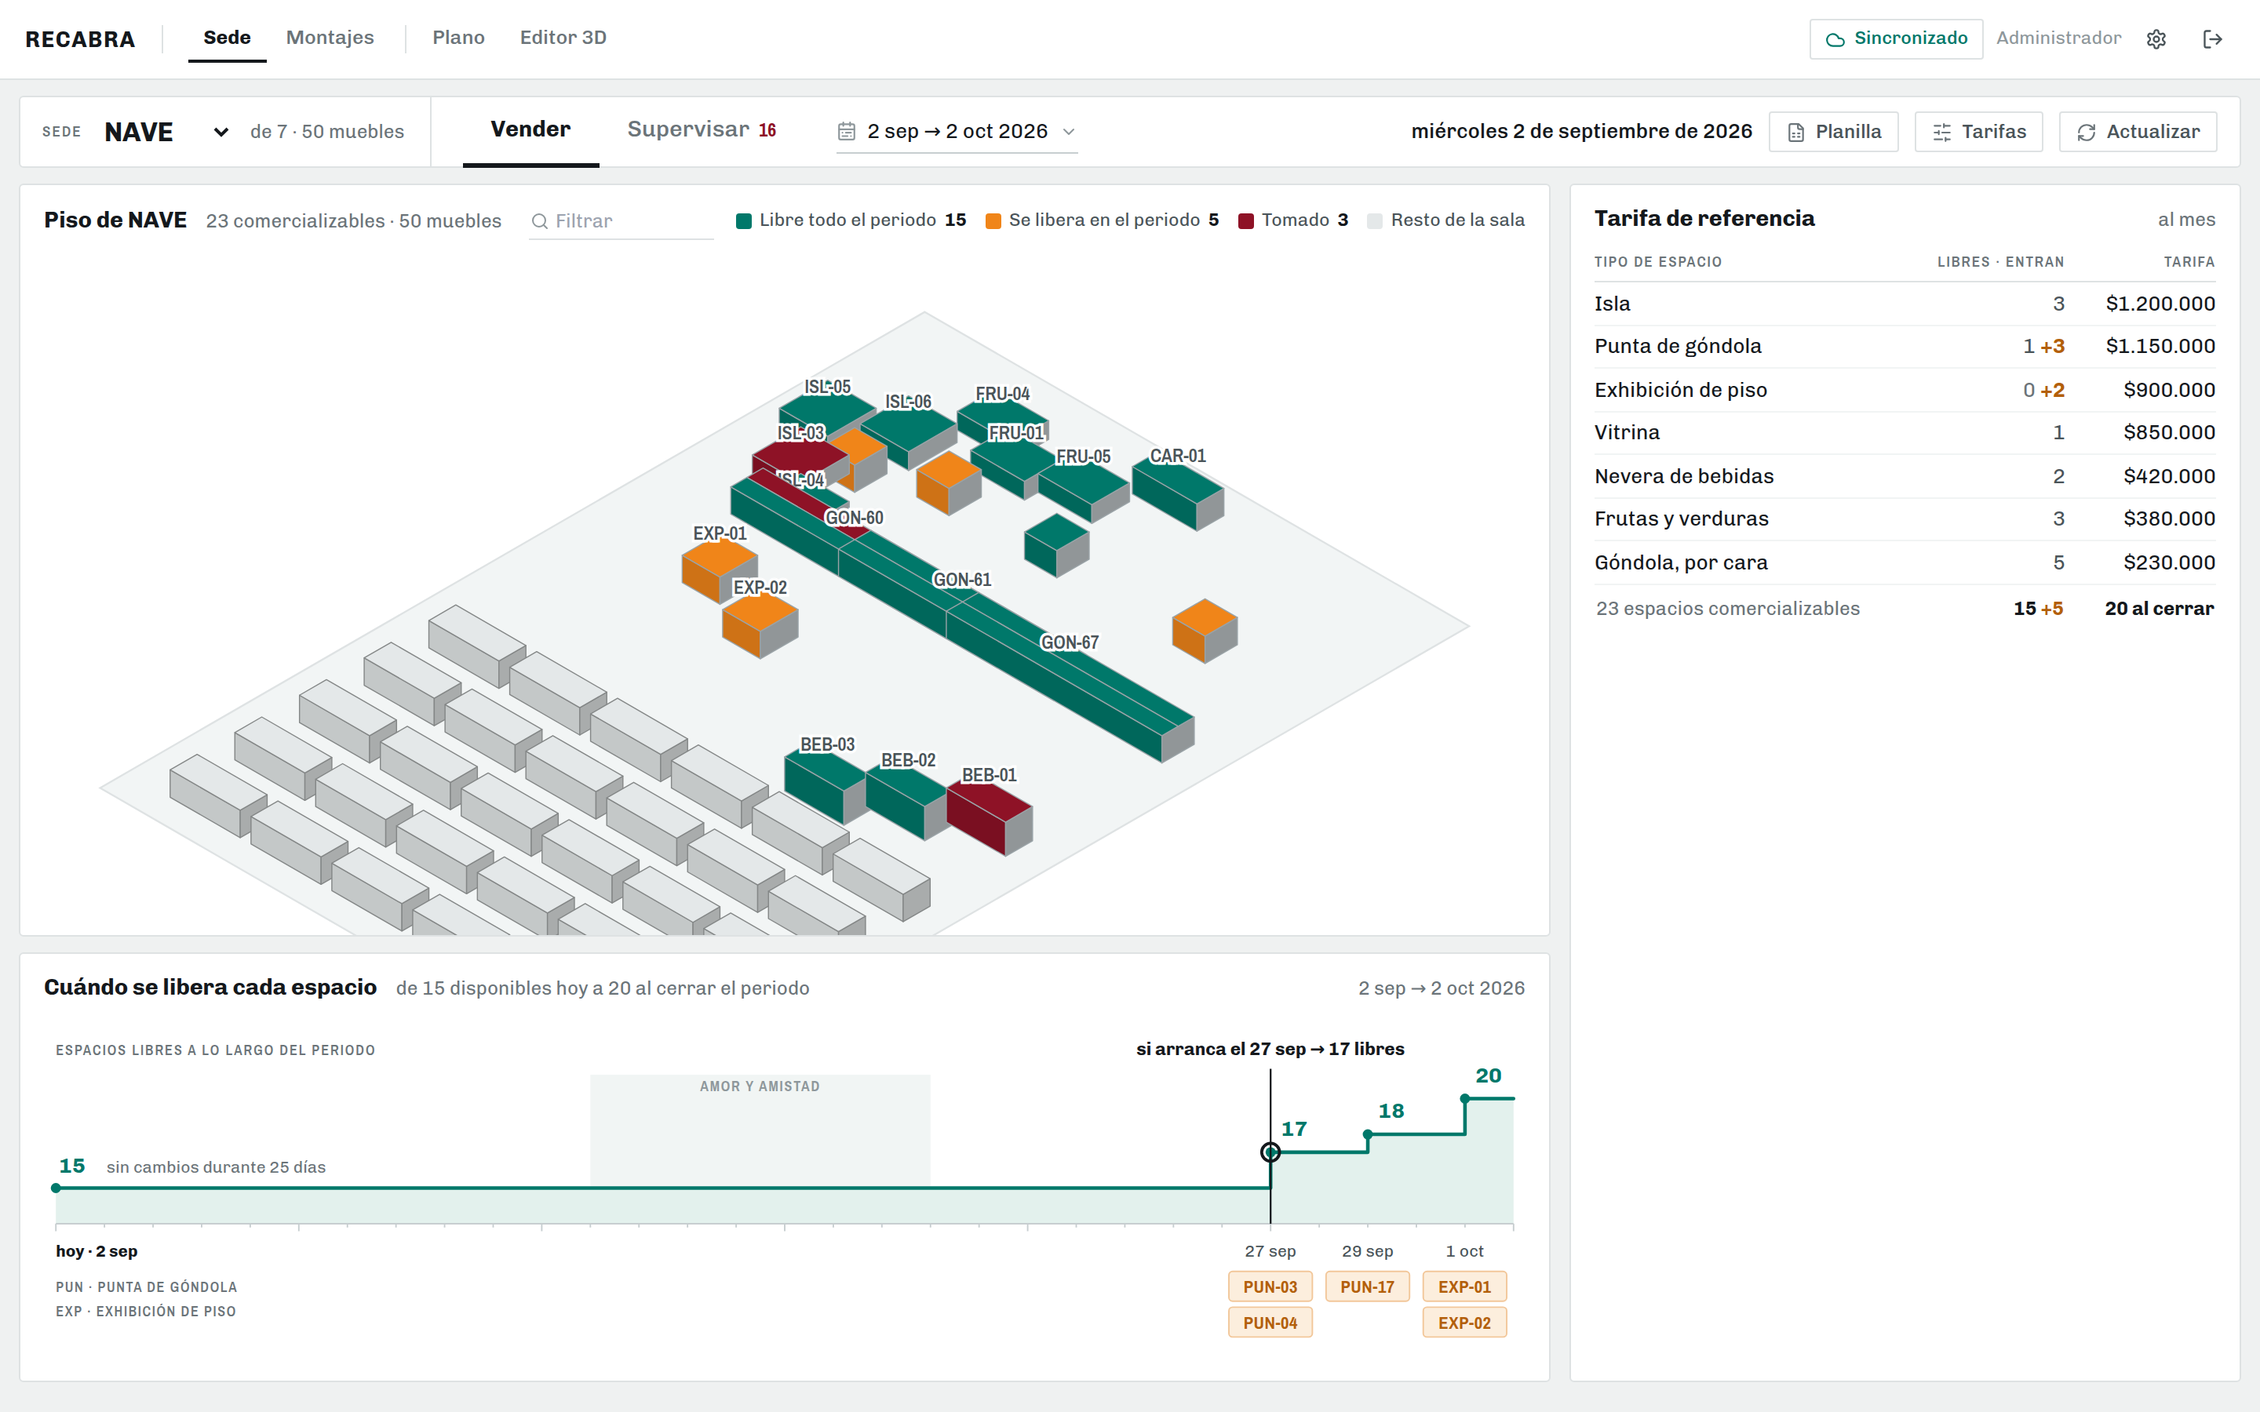
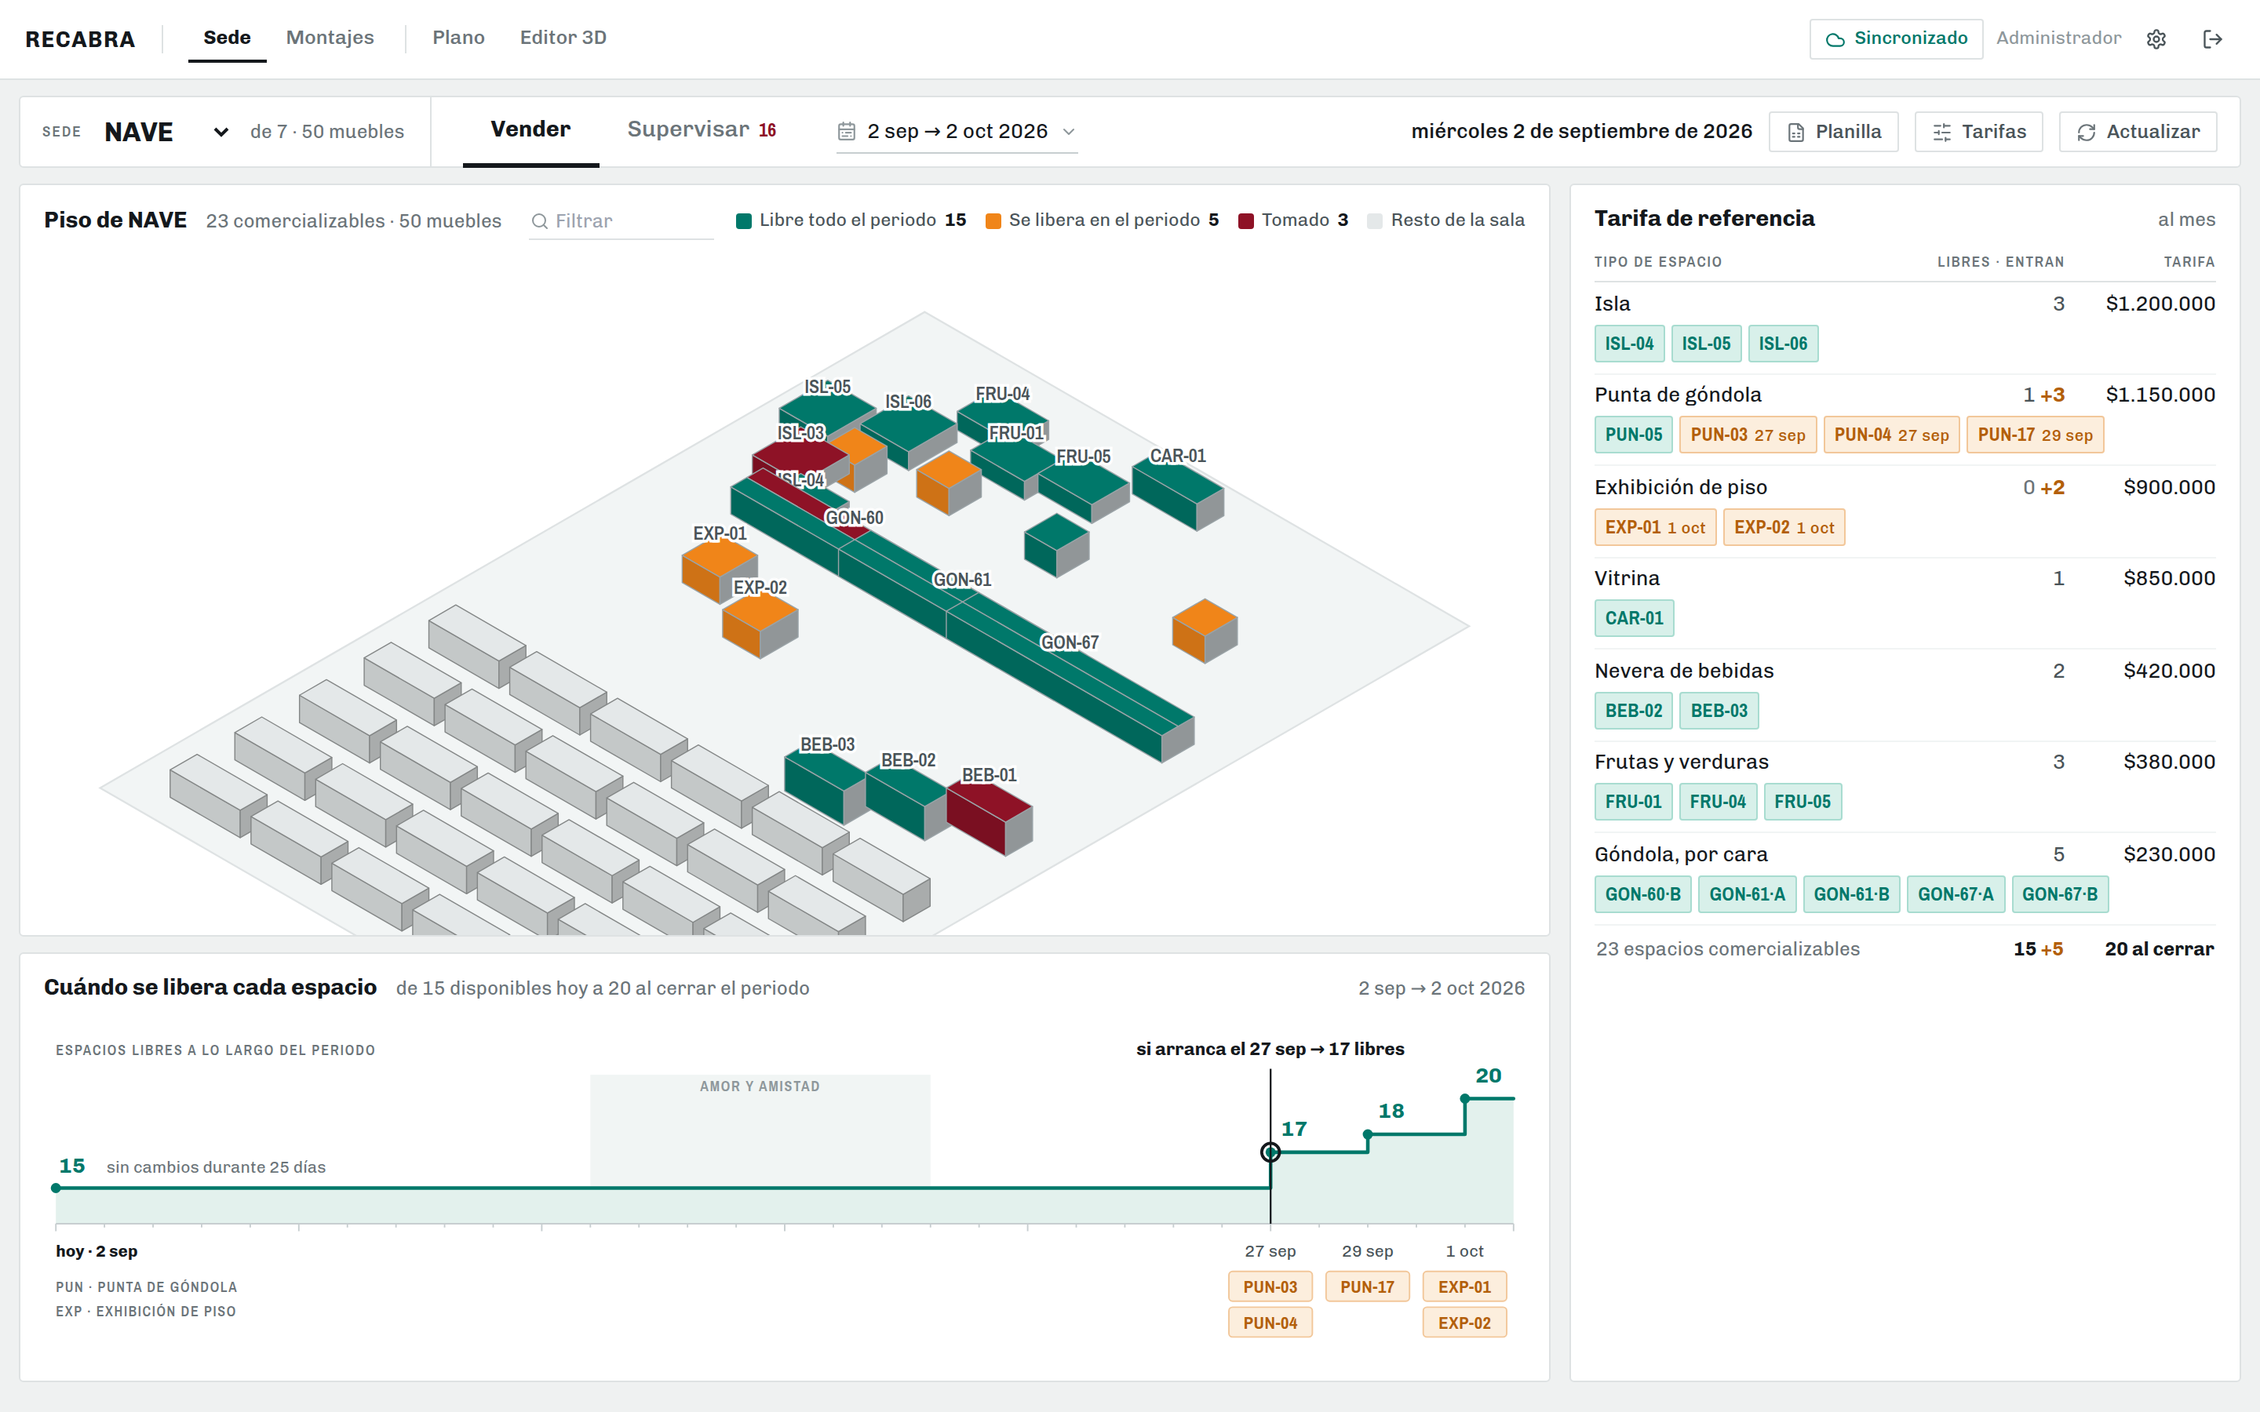
feat(vender): la lista de precios dice cuáles, no sólo cuántos
«Isla · 3 · $1.200.000» contesta cuántas quedan y no CUÁLES, y para averiguarlo
había que buscar los prismas verdes a ojo entre ciento seis muebles. Debajo de
cada tipo van ahora los códigos de sus caras libres.

Van ahí y no en un panel aparte porque un panel aparte repetiría los mismos
siete tipos con los mismos siete precios: es el mismo dato con una vuelta más
de detalle, no otro dato.

Cada código se toca y entra al contrato — la misma acción que tocar el mueble
en el plano, por el otro camino. Es deliberado que sean dos: el plano contesta
«dónde queda» y la lista contesta «cuáles hay», y según cuál de las dos
preguntas traiga el proveedor del otro lado del teléfono uno arranca por un
lado o por el otro. Las góndolas dobles salen como `GON-61·A` y `GON-61·B`,
que son dos espacios y se venden por separado.

Las que se liberan ADENTRO del periodo van en naranja y con su fecha, no
escondidas: es inventario vendible —«te lo puedo dar desde el 25»— y esconderlo
es dejar de ofrecer cinco espacios de veinte. La fecha se cuenta día por día y
no sumándole uno al fin del contrato, que es lo que uno escribiría primero:
esa cuenta se equivoca en los dos casos que de verdad aparecen —un contrato que
ARRANCA en el medio de la ventana, donde el día libre es el primero y no el
último, y una cara con dos contratos que dejan un hueco entre medio—.

Los códigos salen de pantalla cuando hay un contrato armado: ahí la pregunta ya
[…]

diff --git a/frontend/src/pages/DashboardView.tsx b/frontend/src/pages/DashboardView.tsx
@@ -1,4 +1,4 @@
-import { useCallback, useEffect, useMemo, useRef, useState } from "react";
+import { Fragment, useCallback, useEffect, useMemo, useRef, useState } from "react";
 import {
   Camera,
   RefreshCw,
@@ -48,7 +48,7 @@ import type { ResumenContrato } from "../components/Contrato/Contrato";
 import Planometria from "../components/Contrato/Planometria";
 import CancelarContrato from "../components/Contrato/CancelarContrato";
 import CargaMasiva from "../components/CargaMasiva/CargaMasiva";
-import { inclusiveDays, upcomingSeasons } from "../types/seasons";
+import { inclusiveDays, toISODate, upcomingSeasons } from "../types/seasons";
 /* El parte —la zona superior escrita en prosa— salió de las dos pantallas.
    En Supervisar lo reemplaza la franja de cinco cifras: quien pone el canon no
    necesita que se le explique el negocio, necesita el dato a mano. En Vender
@@ -170,6 +170,38 @@ function facesOf(f: UnifiedFixture): FaceEntry[] {
 function codigoVisible(entry: FaceEntry): string {
   if (!isDoubleGondola(entry.fixture)) return entry.code;
   return entry.face === "B" ? `${entry.fixture.code}·B` : `${entry.fixture.code}·A`;
+}
+
+/** Una cara que se puede ofrecer en el periodo elegido. */
+interface Disponible {
+  code: string;
+  fixture: UnifiedFixture;
+  face: "A" | "B";
+  /** El primer día en que queda libre. Ausente = libre desde el arranque. */
+  desde?: Date;
+}
+
+/** Desde cuándo se puede ofrecer una cara que está tomada parte del periodo.
+ *
+ *  Se cuenta día por día en vez de sumarle uno a la fecha de fin del contrato,
+ *  que es lo que uno escribiría primero: esa cuenta se equivoca en los dos
+ *  casos que de verdad aparecen —un contrato que ARRANCA en el medio de la
+ *  ventana, donde el día libre es el primero y no el último, y una cara con dos
+ *  contratos que dejan un hueco entre medio—. Son 31 días y cinco caras: la
+ *  cuenta directa cuesta nada y no puede estar mal. */
+function primerDiaLibre(
+  face: { status: SpaceStatus; startDate?: string; endDate?: string },
+  from: Date,
+  to: Date,
+): Date | undefined {
+  const dia = 86_400_000;
+  const d0 = new Date(from); d0.setHours(0, 0, 0, 0);
+  const fin = new Date(to); fin.setHours(0, 0, 0, 0);
+  for (let t = d0.getTime(); t <= fin.getTime(); t += dia) {
+    const d = new Date(t);
+    if (daysTakenInRange(face, d, d) === 0) return d;
+  }
+  return undefined;
 }
 
 /** Faces that take part in the COMMERCIAL picture.
@@ -2099,6 +2131,56 @@ function SpacesTable({
   );
 }
 
+/** Un espacio libre, como pastilla: el código y —si se libera adentro del
+ *  periodo— desde cuándo.
+ *
+ *  Se toca y entra al contrato, igual que tocarlo en el plano. Es la misma
+ *  acción por dos caminos a propósito: el plano contesta «dónde queda» y la
+ *  lista contesta «cuáles hay», y según cuál de las dos preguntas traiga el
+ *  proveedor uno arranca por un lado o por el otro.
+ *
+ *  El que se libera adentro del periodo va en naranja y con su fecha. No se
+ *  esconde: es inventario vendible —«te lo puedo dar desde el 25»— y esconderlo
+ *  es dejar de vender cinco espacios de veinte. */
+function ChipEspacio({
+  code, desde, puesto, onClick,
+}: {
+  code: string;
+  desde?: Date;
+  /** Ya está en el contrato que se está armando. */
+  puesto: boolean;
+  onClick: () => void;
+}) {
+  const entra = desde !== undefined;
+  return (
+    <button
+      type="button"
+      onClick={(e) => { e.stopPropagation(); onClick(); }}
+      title={puesto
+        ? `Sacar ${code} del contrato`
+        : entra
+        ? `Sumar ${code} al contrato · se libera el ${fechaEnCurso(toISODate(desde))}`
+        : `Sumar ${code} al contrato`}
+      style={{
+        display: "inline-flex", alignItems: "baseline", gap: 4,
+        padding: "2px 6px", borderRadius: "var(--r-xs)", cursor: "pointer",
+        fontFamily: "var(--font-mono)", fontWeight: 700, fontSize: 12,
+        letterSpacing: "0.02em", lineHeight: 1.5,
+        border: `1px solid ${puesto ? "var(--ink-1)" : entra ? "var(--entra-borde)" : "var(--libre-borde)"}`,
+        background: puesto ? "var(--ink-1)" : entra ? "var(--entra-suave)" : "var(--libre-suave)",
+        color: puesto ? "#fff" : entra ? "var(--entra-txt)" : "var(--libre)",
+      }}
+    >
+      {code}
+      {entra && (
+        <span style={{ fontFamily: "var(--font-sans)", fontWeight: 500, fontSize: 10 }}>
+          {fechaEnCurso(toISODate(desde))}
+        </span>
+      )}
+    </button>
+  );
+}
+
 // ─── La franja de cifras ─────────────────────────────────────────────────────
 
 /** Una cifra de la franja: cómo se llama, cuánto es, y qué quiere decir.
@@ -2464,16 +2546,22 @@ export default function DashboardView() {
   const porCategoria = useMemo(() => {
     if (!mapRange) return [];
     const acum = new Map<string, {
-      libres: number; parciales: number; total: number; tarifa: number | null;
+      libres: Disponible[]; parciales: Disponible[]; total: number; tarifa: number | null;
     }>();
     fixtures.forEach((f) => {
       const cat = rateTypeOf(f);
       const ref = referenceRateFor(referenceRates, f.sede || sede, cat);
       commercialFacesOf(f).forEach((face) => {
-        const e = acum.get(cat) ?? { libres: 0, parciales: 0, total: 0, tarifa: ref };
+        const e = acum.get(cat) ?? { libres: [], parciales: [], total: 0, tarifa: ref };
         const a = rangeAvailability(face, mapRange.from, mapRange.to);
-        if (a === "libre") e.libres++;
-        else if (a === "parcial") e.parciales++;
+        if (a === "libre") {
+          e.libres.push({ code: codigoVisible(face), fixture: f, face: face.face });
+        } else if (a === "parcial") {
+          e.parciales.push({
+            code: codigoVisible(face), fixture: f, face: face.face,
+            desde: primerDiaLibre(face, mapRange.from, mapRange.to),
+          });
+        }
         e.total++;
         if (e.tarifa === null) e.tarifa = ref;
         acum.set(cat, e);
@@ -2823,6 +2911,11 @@ export default function DashboardView() {
    *  «¿qué le ofrezco?». Tenerlo detrás de un botón obligaba a abrir, mirar,
    *  cerrar y volver a mirar el plano — cuatro gestos para un dato que se usa
    *  en cada llamada. */
+  /** Los códigos sólo mientras no hay contrato armado: ahí la hoja de la
+   *  derecha está vacía y la pregunta es cuáles hay. Con la ficha abierta la
+   *  pregunta ya es otra y los códigos la empujarían fuera de la pantalla. */
+  const conCodigos = espaciosDelContrato.length === 0 && !cerrado;
+
   const panelTarifas = (
     <Card style={{ flex: "1 1 auto", minHeight: 0 }}>
       <CardHeader title="Tarifa de referencia" right={<span>al mes</span>} />
@@ -2857,9 +2950,10 @@ export default function DashboardView() {
                 $1.200.000», se toca, y el plano se queda sólo con las islas. */}
             {porCategoria.map(({ cat, libres, parciales, tarifa }) => {
               const activa = mapCategoria === cat;
+              const cuantas = libres.length + parciales.length;
               return (
+              <Fragment key={cat}>
               <tr
-                key={cat}
                 onClick={() => setMapCategoria(activa ? null : cat)}
                 title={activa
                   ? "Ver todos los tipos en el plano"
@@ -2871,27 +2965,75 @@ export default function DashboardView() {
                   fontWeight: activa ? 700 : 400,
                   boxShadow: activa ? "inset 2px 0 0 var(--ink-1)" : undefined,
                   paddingLeft: activa ? 8 : 0,
+                  borderBottom: conCodigos && cuantas > 0 ? "none" : celdaTarifa.borderBottom,
                 }}>
                   {rateTypeLabel(cat)}
                 </td>
-                <td style={{ ...celdaTarifa, textAlign: "right" }}>
-                  <span style={{ color: libres === 0 ? "var(--ink-3)" : "var(--ink-2)" }}>{libres}</span>
-                  {parciales > 0 && (
+                <td style={{
+                  ...celdaTarifa, textAlign: "right",
+                  borderBottom: conCodigos && cuantas > 0 ? "none" : celdaTarifa.borderBottom,
+                }}>
+                  <span style={{ color: libres.length === 0 ? "var(--ink-3)" : "var(--ink-2)" }}>
+                    {libres.length}
+                  </span>
+                  {parciales.length > 0 && (
                     <>
                       {" "}
                       <span
-                        title={`${parciales} se libera${parciales === 1 ? "" : "n"} adentro del periodo`}
+                        title={`${parciales.length} se libera${parciales.length === 1 ? "" : "n"} adentro del periodo`}
                         style={{ color: "var(--entra-txt)", fontWeight: 700 }}
                       >
-                        +{parciales}
+                        +{parciales.length}
                       </span>
                     </>
                   )}
                 </td>
-                <td style={{ ...celdaTarifa, textAlign: "right" }}>
+                <td style={{
+                  ...celdaTarifa, textAlign: "right",
+                  borderBottom: conCodigos && cuantas > 0 ? "none" : celdaTarifa.borderBottom,
+                }}>
                   {tarifa ? formatCOP(tarifa) : <span style={{ color: "var(--ink-vacio)" }}>sin tarifa</span>}
                 </td>
               </tr>
+
+              {/* Los códigos de lo que está libre, debajo de su tipo.
+                  «Isla · 3» dice cuántas quedan y no CUÁLES, y para averiguarlo
+                  había que buscar los prismas verdes a ojo entre ciento seis
+                  muebles. Van acá y no en un panel aparte porque el panel
+                  aparte repetiría los mismos siete tipos con los mismos siete
+                  precios: es el mismo dato con una vuelta más de detalle.
+
+                  Sólo mientras no hay contrato armado. Después son ruido —lo
+                  que se necesita entonces es el formulario— y encima empujan
+                  la ficha fuera de la pantalla. */}
+              {conCodigos && cuantas > 0 && (
+                <tr>
+                  <td colSpan={3} style={{
+                    padding: "0 0 7px", borderBottom: "1px solid var(--line-soft)",
+                  }}>
+                    <div style={{ display: "flex", flexWrap: "wrap", gap: 4 }}>
+                      {libres.map((d) => (
+                        <ChipEspacio
+                          key={`${d.fixture.id}-${d.face}`}
+                          code={d.code}
+                          onClick={() => alternarCara(d.fixture.id, d.face)}
+                          puesto={enContrato.some((x) => x.id === d.fixture.id && x.face === d.face)}
+                        />
+                      ))}
+                      {parciales.map((d) => (
+                        <ChipEspacio
+                          key={`${d.fixture.id}-${d.face}`}
+                          code={d.code}
+                          desde={d.desde}
+                          onClick={() => alternarCara(d.fixture.id, d.face)}
+                          puesto={enContrato.some((x) => x.id === d.fixture.id && x.face === d.face)}
+                        />
+                      ))}
+                    </div>
+                  </td>
+                </tr>
+              )}
+              </Fragment>
               );
             })}
           </tbody>

diff --git a/docs/ESTADO.md b/docs/ESTADO.md
@@ -438,6 +438,17 @@ hay ficha: si no, la lista de precios —unos 380 px— quedaba al lado de un pl
 y dejaba el fondo gris a la vista, que se lee como que falta algo. Estirada, la tabla
 queda arriba y lo que sobra es hoja en blanco.
 
+**La lista de precios dice CUÁLES.** «Isla · 3 · $1.200.000» dice cuántas quedan y no
+cuáles, y para averiguarlo había que buscar los prismas verdes a ojo entre ciento seis
+muebles. Debajo de cada tipo van los códigos de sus caras libres, como pastillas que se
+tocan para sumarlas al contrato — la misma acción que tocar el mueble en el plano, por
+el otro camino: el plano contesta «dónde queda» y la lista contesta «cuáles hay», y
+según cuál de las dos preguntas traiga el proveedor uno arranca por un lado o por el
+otro. Las que se liberan adentro del periodo van en naranja y con su fecha: es
+inventario vendible —«te lo puedo dar desde el 25»— y esconderlo es dejar de ofrecer
+cinco espacios de veinte. Los códigos salen cuando hay un contrato armado: ahí la
+pregunta ya es otra y empujarían la ficha fuera de la pantalla.
+
 **Cómo se mira sin backend.** `docs/maquetas/generadores/pantalla.mjs` sirve
 `frontend/dist` y contesta `/api/*` con una sede sintética que lleva los ocho contratos
 reales de NAVE. Lo que no está en el mapa de rutas contesta **404 y no `[]`** —así un

diff --git a/docs/maquetas/generadores/README.md b/docs/maquetas/generadores/README.md
@@ -36,6 +36,7 @@ node pantalla.mjs                   # admin: Vender y Supervisar
 node pantalla.mjs trabajador        # rol mercaderista, y la regla de la plata
 node pantalla.mjs ficha             # Vender con un espacio elegido
 node pantalla.mjs multi             # un contrato sobre dos espacios
+node pantalla.mjs codigos           # el contrato armado desde la lista de precios
 node pantalla.mjs guardar           # el mismo, guardado de punta a punta
 
 python3 opciones.py                      # regenera la página de opciones
